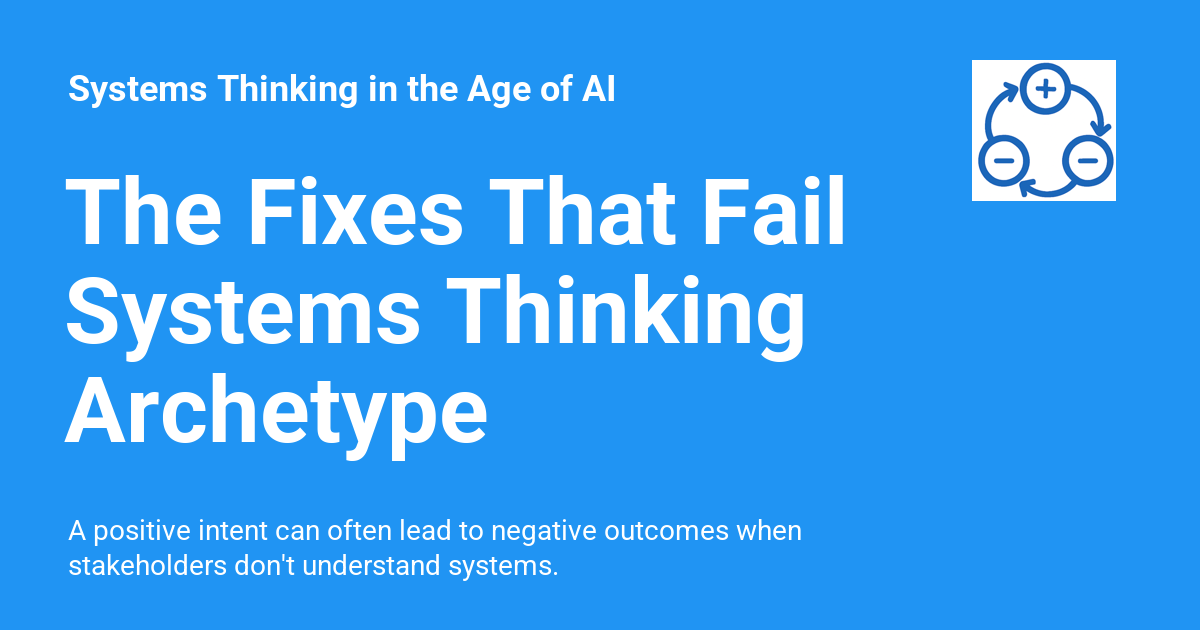
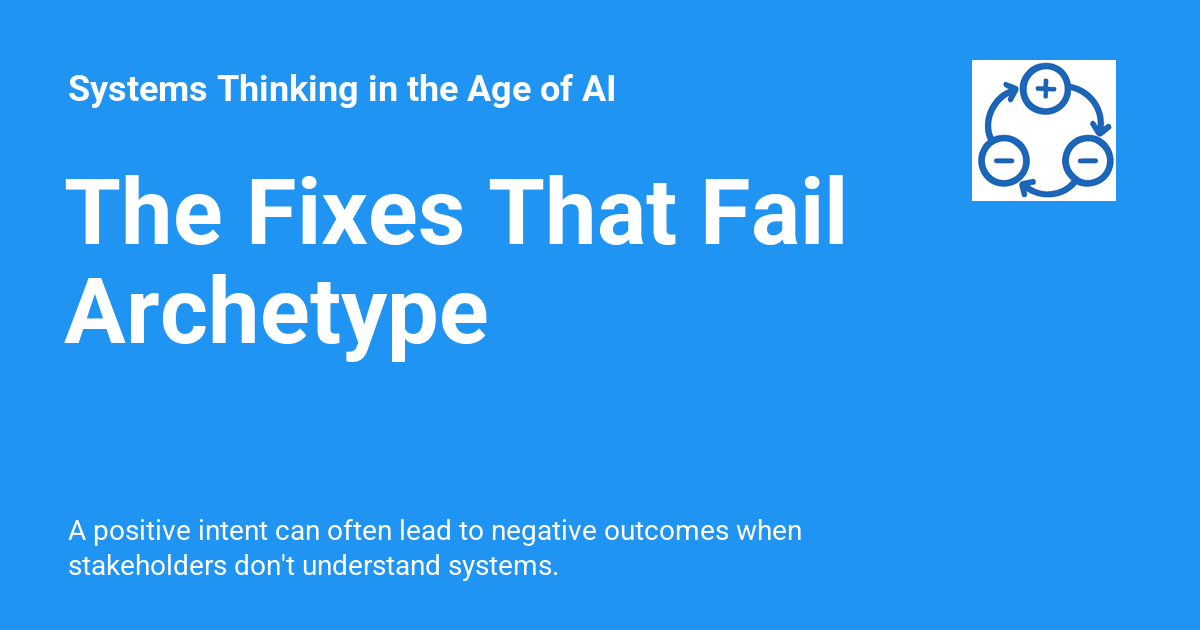
Deployed 10923c84 with MkDocs version: 1.6.1

Changed region(s): [[0.0308, 0.4222, 0.6783, 0.573], [0.0308, 0.6032, 0.4317, 0.754]]

diff --git a/archetypes/fixes-that-fail/index.html b/archetypes/fixes-that-fail/index.html
@@ -26,7 +26,7 @@
     
     
       
-        <title>The Fixes That Fail Systems Thinking Archetype - Systems Thinking in the Age of AI</title>
+        <title>The Fixes That Fail Archetype - Systems Thinking in the Age of AI</title>
       
     
     
@@ -73,7 +73,7 @@
       
         <meta  property="og:type"  content="website" >
       
-        <meta  property="og:title"  content="The Fixes That Fail Systems Thinking Archetype - Systems Thinking in the Age of AI" >
+        <meta  property="og:title"  content="The Fixes That Fail Archetype - Systems Thinking in the Age of AI" >
       
         <meta  property="og:description"  content="A positive intent can often lead to negative outcomes when stakeholders don't understand systems." >
       
@@ -89,7 +89,7 @@
       
         <meta  name="twitter:card"  content="summary_large_image" >
       
-        <meta  name="twitter:title"  content="The Fixes That Fail Systems Thinking Archetype - Systems Thinking in the Age of AI" >
+        <meta  name="twitter:title"  content="The Fixes That Fail Archetype - Systems Thinking in the Age of AI" >
       
         <meta  name="twitter:description"  content="A positive intent can often lead to negative outcomes when stakeholders don't understand systems." >
       
@@ -149,7 +149,7 @@
         <div class="md-header__topic" data-md-component="header-topic">
           <span class="md-ellipsis">
             
-              The Fixes That Fail Systems Thinking Archetype
+              The Fixes That Fail Archetype
             
           </span>
         </div>
